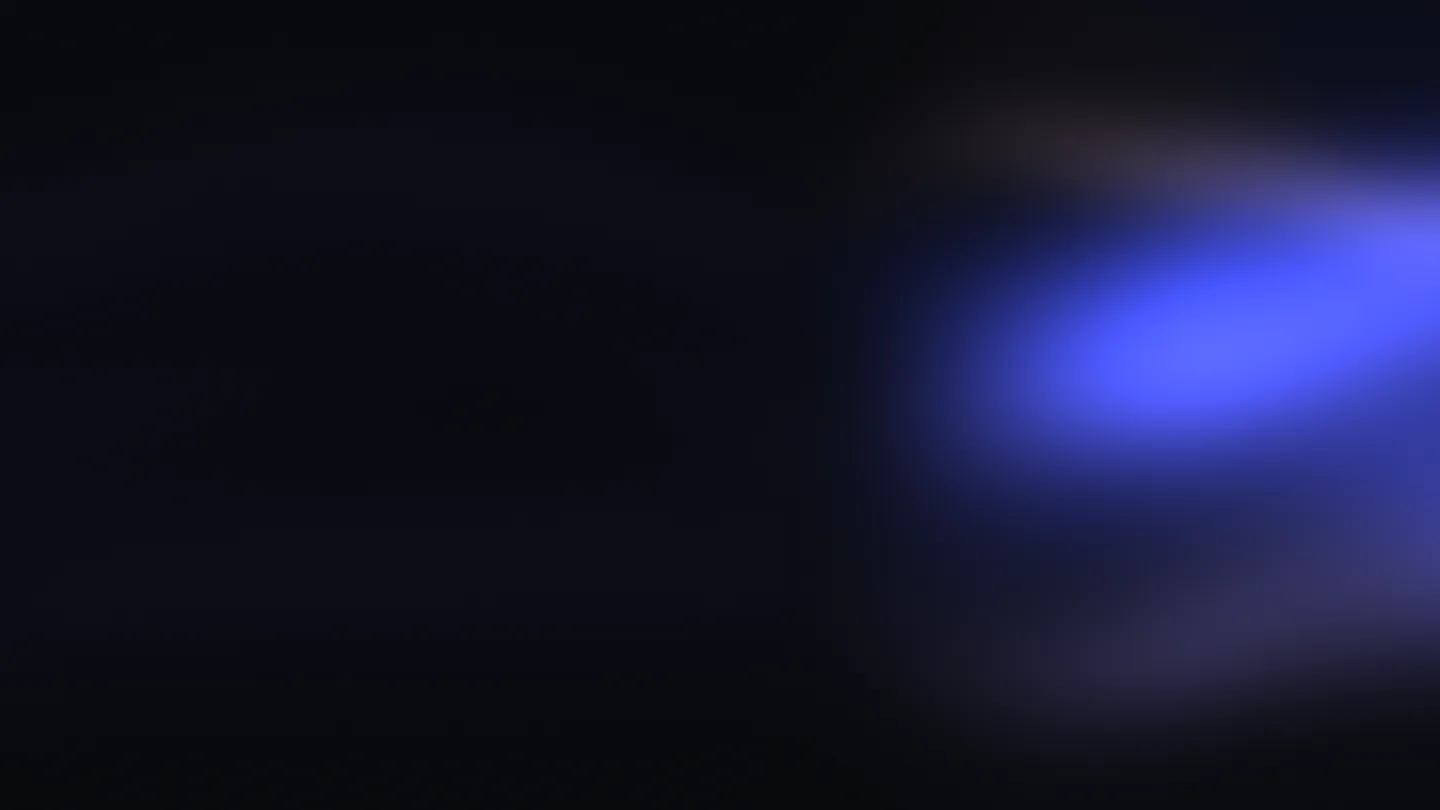
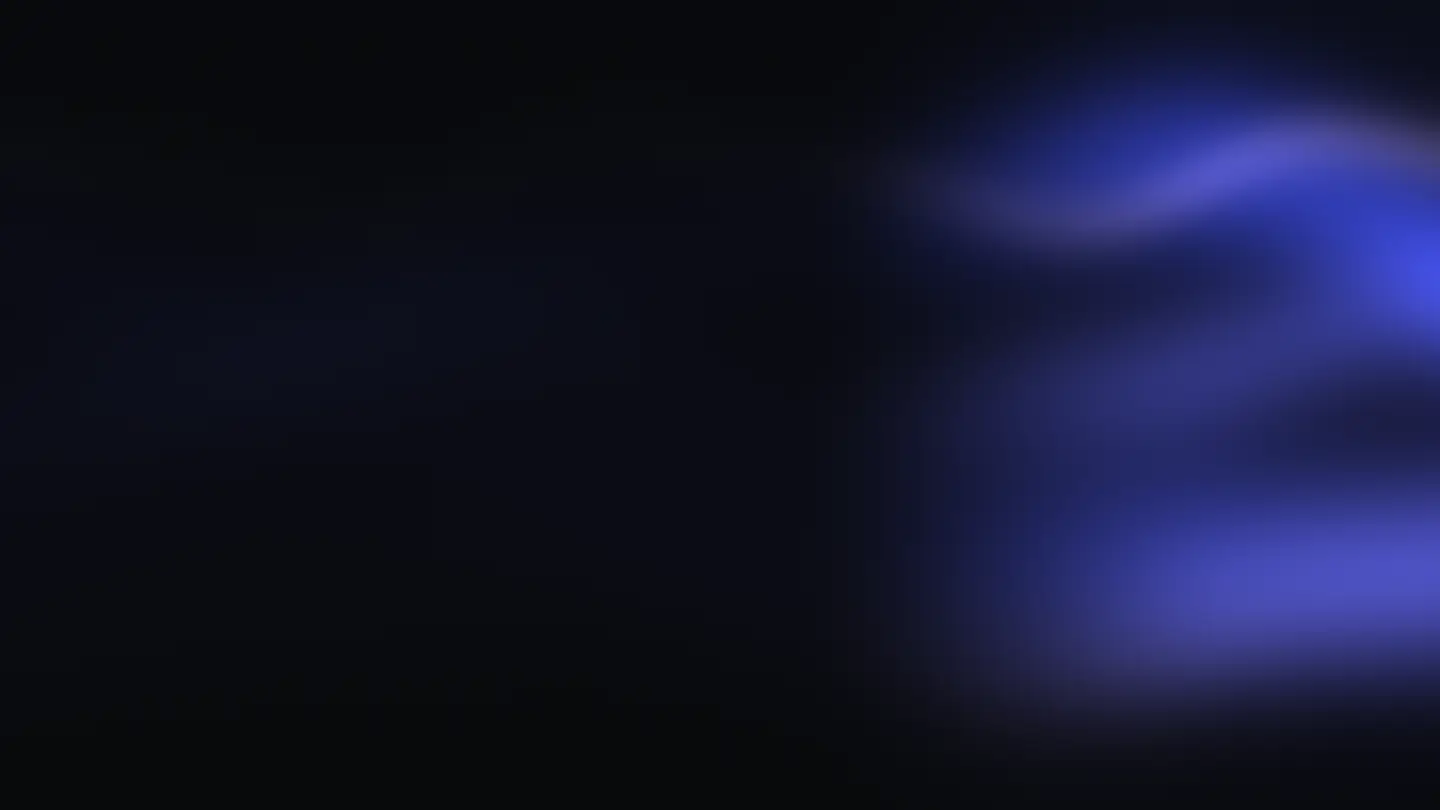
Make the poster a byte-identical copy of the frame the manifest declares
FrameSequence publishes `manifest.posterFrame` to the timecode readout
whenever the draw loop is idle — reduced motion, and the window between the
document painting and the first frames decoding. lib/sequences.ts declares
posterFrame 1 for every sequence, but the renderer was generating posters from
frames 90 and 20 at a different WebP quality. So the page announced
"FRAME 001" over frame 90's image.

The poster is now copied from the declared frame rather than re-rendered, and
verify-frames.py compares the bytes, so the two cannot drift apart again.
posterFrame is parsed out of the manifest for the same reason the safe-area
rectangles already were.

Also records two measurement traps in ENGINEERING-NOTES:

`performance.getEntriesByType('resource')` silently caps at 250 entries. On a
page with 360 sequence frames this fabricated a missing-asset bug — two case
sequences appeared to load zero frames, and the readout showing a number for
them looked like a second bug on top of it. Both runs returning exactly 250
requests was the tell. With setResourceTimingBufferSize(5000) the real figures
are 377 requests, 364 of them frames, all four sequences complete.

Measured on the rebuilt site:
  Lighthouse mobile   98 / 100 / 100 / 100   (spec §10 floor: 90/100/100/100)
  LCP mobile          2.3s                    (budget 2.5s)
  Slow 4G + 4x CPU    DOMContentLoaded 581ms, h1 opaque in frame one,
                      no page errors, no horizontal overflow
[…]

Changed region(s): [[0.625, 0.0309, 1.0, 0.8642]]

diff --git a/projects/port-1/scripts/render-frames.py b/projects/port-1/scripts/render-frames.py
@@ -44,6 +44,7 @@ be looped later without a re-render.
 from __future__ import annotations
 
 import math
+import shutil
 from pathlib import Path
 
 import numpy as np
@@ -189,10 +190,11 @@ def case_mask(width: int, height: int) -> np.ndarray:
 
 SEQUENCES = [
     # id, aspect, frames, widths, mask fn, ribbons, poster frame, seed
-    ("hero", 16 / 9, 180, [375, 768, 1440], hero_mask, HERO_RIBBONS, 90, 11),
-    ("case-01", 16 / 10, 60, [375, 960], case_mask, CASE_RIBBONS, 20, 21),
-    ("case-02", 16 / 10, 60, [375, 960], case_mask, CASE_RIBBONS, 20, 22),
-    ("case-03", 16 / 10, 60, [375, 960], case_mask, CASE_RIBBONS, 20, 23),
+    # poster frame MUST equal `posterFrame` in lib/sequences.ts — verified.
+    ("hero", 16 / 9, 180, [375, 768, 1440], hero_mask, HERO_RIBBONS, 1, 11),
+    ("case-01", 16 / 10, 60, [375, 960], case_mask, CASE_RIBBONS, 1, 21),
+    ("case-02", 16 / 10, 60, [375, 960], case_mask, CASE_RIBBONS, 1, 22),
+    ("case-03", 16 / 10, 60, [375, 960], case_mask, CASE_RIBBONS, 1, 23),
 ]
 
 # Per-sequence character. Only ONE control varies between the three cases —
@@ -242,16 +244,18 @@ def main() -> None:
 
             print(f"  {seq_id}/{width}  {count} frames  {width}x{height}")
 
-        # Poster: same dimensions as the largest rendition.
-        pw = widths[-1]
-        ph = int(round(pw / aspect))
-        ph += ph % 2
-        t = (poster_frame - 1) / count
-        rgb = render(pw, ph, t, ribbons, mask_fn(pw, ph) * gain, seed + poster_frame)
-        Image.fromarray((rgb * 255.0 + 0.5).astype(np.uint8), "RGB").save(
-            SEQ_DIR / seq_id / "poster.webp", "WEBP", quality=82, method=4
-        )
-        print(f"  {seq_id}/poster.webp  {pw}x{ph}")
+        # Poster: a byte-identical copy of the frame the manifest declares.
+        #
+        # It used to be re-rendered from its own frame index at a different
+        # quality, which let it drift: the manifest said posterFrame 1 while
+        # the file held frame 90. That is visible — FrameSequence publishes
+        # `manifest.posterFrame` to the timecode readout whenever the draw loop
+        # is not running, so the page announced "FRAME 001" over frame 90's
+        # image. Copying makes the declaration true by construction, and
+        # verify-frames.py compares the bytes so it cannot drift again.
+        src = SEQ_DIR / seq_id / str(widths[-1]) / f"frame_{poster_frame:04d}.webp"
+        shutil.copyfile(src, SEQ_DIR / seq_id / "poster.webp")
+        print(f"  {seq_id}/poster.webp  <- {src.name}")
 
 
 if __name__ == "__main__":

diff --git a/projects/port-1/scripts/verify-frames.py b/projects/port-1/scripts/verify-frames.py
@@ -40,15 +40,16 @@ def parse_manifest() -> dict[str, dict]:
     # Each entry looks like:  id: "hero", ... widths: [375, 768, 1440], ...
     #                         safeArea: { x: 0, y: 0.22, w: 0.6, h: 0.74 },
     blocks = re.findall(
-        r'id:\s*"([\w-]+)".*?widths:\s*\[([\d,\s]+)\].*?'
+        r'id:\s*"([\w-]+)".*?widths:\s*\[([\d,\s]+)\].*?posterFrame:\s*(\d+).*?'
         r"safeArea:\s*\{\s*x:\s*([\d.]+),\s*y:\s*([\d.]+),\s*w:\s*([\d.]+),\s*h:\s*([\d.]+)\s*\}",
         src,
         re.S,
     )
     out = {}
-    for seq_id, widths, x, y, w, h in blocks:
+    for seq_id, widths, poster_frame, x, y, w, h in blocks:
         out[seq_id] = {
             "widths": [int(v) for v in widths.split(",") if v.strip()],
+            "posterFrame": int(poster_frame),
             "safe": (float(x), float(y), float(w), float(h)),
         }
     return out
@@ -121,9 +122,25 @@ def main() -> int:
             print(f"{seq_id:<12} {width:>6} {len(frames):>7} {worst_name:>12} "
                   f"{worst_l:>8.4f} {contrast:>8.2f}:1  {total:>10,}{flag}")
 
+        # The poster must BE the frame the manifest declares. FrameSequence
+        # publishes `manifest.posterFrame` to the timecode whenever the draw
+        # loop is idle, so a poster holding some other frame makes the page
+        # announce a number that does not match the image on screen. Compare
+        # the bytes rather than trusting the renderer.
         poster = SEQ_DIR / seq_id / "poster.webp"
         if not poster.exists():
             failures.append(f"{seq_id}: poster.webp missing")
+        else:
+            pf = info["posterFrame"]
+            declared = SEQ_DIR / seq_id / str(info["widths"][-1]) / f"frame_{pf:04d}.webp"
+            if not declared.exists():
+                failures.append(f"{seq_id}: posterFrame {pf} has no frame file")
+            elif poster.read_bytes() != declared.read_bytes():
+                failures.append(
+                    f"{seq_id}: poster.webp is not frame_{pf:04d}.webp "
+                    f"({poster.stat().st_size:,} vs {declared.stat().st_size:,} bytes) — "
+                    f"the timecode will announce frame {pf} over a different image"
+                )
 
     print()
     if failures:

diff --git a/.claude/ENGINEERING-NOTES.md b/.claude/ENGINEERING-NOTES.md
@@ -55,6 +55,27 @@ Applies to every agent, without exception.
   syntax and types. It proves nothing about behaviour, layout, or appearance.
 - **Check the claim, not the intent.** If a report says an asset meets budget,
   measure the file. If it says a route works, request it.
+- **Check your instrument before you believe the defect.** A saturated tool
+  reports a clean, specific, entirely false result.
+
+### The measurement traps that have produced false bug reports
+
+- **`performance.getEntriesByType('resource')` silently caps at 250 entries.**
+  On a page with a 360-frame image sequence this fabricates a missing-asset
+  bug: two sequences appeared to load zero frames, and the readout showing a
+  frame number for them looked like a second bug on top. Both runs returned
+  exactly `250` total requests — *that* was the tell. Call
+  `performance.setResourceTimingBufferSize(5000)` in an init script **before
+  navigation**, and treat a round-number total as a saturated buffer until
+  proven otherwise. Corrected numbers were 377 requests, 364 of them frames.
+- **`elementsFromPoint` always returns something under a `position: fixed`
+  element**, so a naive overlap probe reports a collision everywhere the fixed
+  element sits. Test the elements you care about, not the point.
+- **A headless WebGL frame rate is SwiftShader on the CPU.** Not a device
+  number; do not report it as fps.
+
+When a measurement implies a defect, reproduce it a second way before writing
+it up. Two instruments agreeing is evidence; one instrument is a hypothesis.
 
 ---
 
